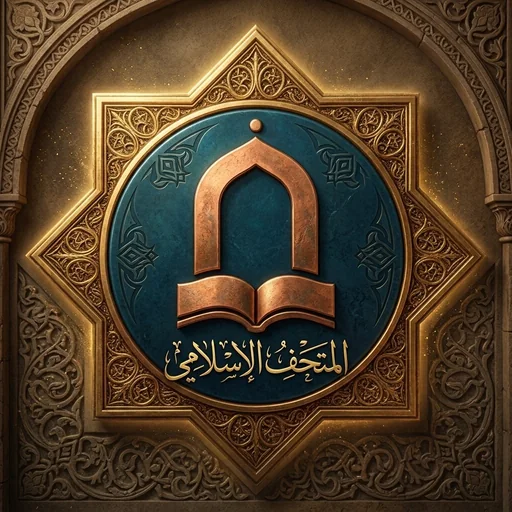
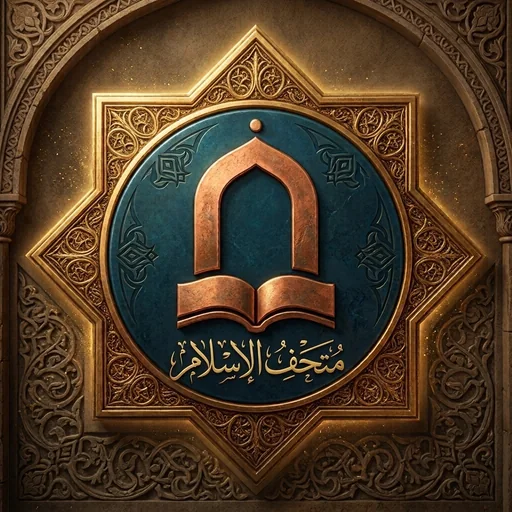
brand: emblem with the corrected lettering «متحف الإسلام»; reproducible asset cut in scripts/brand/emblem.py
The script finds the lapis disc by colour (with a roundness check), cuts the medallion and writes every brand asset,
favicon and the social card from docs/design/emblem-source.jpg.

AI-Agent: claude
AI-Model: claude-fable-5-1
AI-Editor: Claude desktop app (Code tab)

Changed region(s): [[0.3125, 0.6562, 0.6875, 0.75]]

diff --git a/scripts/brand/emblem.py b/scripts/brand/emblem.py
@@ -1,0 +1,97 @@
+#!/usr/bin/env python3
+"""Cut the brand assets from the painted emblem (docs/design/emblem-source.jpg) into site/public/.
+
+Finds the lapis disc by colour, cuts the medallion (disc + gold ring) with a transparent background, and writes:
+  brand/emblem-full.webp, emblem-full-512.webp      the full square (foundation page, backgrounds)
+  brand/mark-{128,512}.webp, mark-512.png           the medallion for light grounds
+  brand/mark-dark-{128,512}.webp                    brightened, gold-haloed medallion for dark grounds
+  brand/mark-mono-{ink,gold}-512.webp               single-colour marks; mark-watermark-{ink,gold}.webp pre-faded (26 %)
+  favicon-{16,32,64}.png, apple-touch-icon.png, brand/og-image.jpg
+Run from the repository root: python3 scripts/brand/emblem.py
+"""
+from pathlib import Path
+import numpy as np
+from PIL import Image, ImageDraw, ImageEnhance, ImageFilter
+
+ROOT = Path(__file__).resolve().parents[2]
+SRC = ROOT / "docs/design/emblem-source.jpg"
+PUB = ROOT / "site/public"
+OUT = PUB / "brand"
+OUT.mkdir(parents=True, exist_ok=True)
+
+img = Image.open(SRC).convert("RGB")
+a = np.asarray(img).astype(int)
+# the lapis disc: dark teal pixels (low red, blue and green above red); its bounding box gives centre and radius, and the
+# gold ring adds ~24 px. The box must be near-square, or the mask caught something else.
+blue = (a[..., 0] < 140) & (a[..., 2] > a[..., 0] + 8) & (a[..., 1] > a[..., 0] + 4)
+ys, xs = np.where(blue)
+w, h = xs.max() - xs.min(), ys.max() - ys.min()
+if abs(w - h) > 0.04 * max(w, h):
+    raise SystemExit(f"disc mask is not round ({w}x{h}); adjust the colour thresholds")
+cx, cy = int((xs.min() + xs.max()) / 2), int((ys.min() + ys.max()) / 2)
+r = int(max(w, h) / 2) + 24
+print(f"disc centre ({cx}, {cy}), medallion radius {r}")
+
+img.save(OUT / "emblem-full.webp", quality=84, method=6)
+img.resize((512, 512), Image.LANCZOS).save(OUT / "emblem-full-512.webp", quality=84, method=6)
+
+S = 4
+mask = Image.new("L", (img.width * S, img.height * S), 0)
+ImageDraw.Draw(mask).ellipse([(cx - r) * S, (cy - r) * S, (cx + r) * S, (cy + r) * S], fill=255)
+mask = mask.resize(img.size, Image.LANCZOS)
+rgba = img.convert("RGBA")
+rgba.putalpha(mask)
+mark = rgba.crop((cx - r, cy - r, cx + r, cy + r))
+D = mark.width
+
+
+def save(im: Image.Image, name: str, sizes=(512,), png=False):
+    for s in sizes:
+        m = im.resize((s, s), Image.LANCZOS)
+        m.save(OUT / f"{name}-{s}.webp", quality=88, method=6)
+        if png:
+            m.save(OUT / f"{name}-{s}.png", optimize=True)
+
+
+save(mark, "mark", (512, 128), png=False)
+mark.resize((512, 512), Image.LANCZOS).save(OUT / "mark-512.png", optimize=True)
+
+bright = ImageEnhance.Contrast(ImageEnhance.Brightness(mark).enhance(1.22)).enhance(1.08)
+halo = Image.new("RGBA", (D, D), (0, 0, 0, 0))
+ImageDraw.Draw(halo).ellipse([6, 6, D - 6, D - 6], fill=(197, 160, 89, 110))
+halo = halo.filter(ImageFilter.GaussianBlur(14))
+dark = Image.alpha_composite(halo, bright)
+save(dark, "mark-dark", (512, 128))
+
+lum = np.asarray(mark.convert("L")).astype(float) / 255.0
+alpha = np.asarray(mark.split()[3]).astype(float) / 255.0
+
+
+def tinted(color):
+    l = np.clip((lum - 0.15) / 0.7, 0, 1)
+    arr = np.zeros((D, D, 4), dtype=np.uint8)
+    arr[..., 0], arr[..., 1], arr[..., 2] = color
+    arr[..., 3] = (l * alpha * 255).astype(np.uint8)
+    return Image.fromarray(arr, "RGBA")
+
+
+for name, color in [("gold", (197, 160, 89)), ("ink", (10, 37, 51))]:
+    mono = tinted(color)
+    save(mono, f"mark-mono-{name}", (512,))
+    faded = np.asarray(mono.resize((512, 512), Image.LANCZOS)).copy()
+    faded[..., 3] = (faded[..., 3].astype(float) * 0.26).astype(np.uint8)
+    Image.fromarray(faded, "RGBA").save(OUT / f"mark-watermark-{name}.webp", quality=80, method=6)
+
+for s in (16, 32, 64):
+    mark.resize((s, s), Image.LANCZOS).save(PUB / f"favicon-{s}.png", optimize=True)
+touch = Image.new("RGBA", (180, 180), (10, 37, 51, 255))
+touch.alpha_composite(mark.resize((156, 156), Image.LANCZOS), (12, 12))
+touch.convert("RGB").save(PUB / "apple-touch-icon.png", optimize=True)
+
+og = Image.new("RGBA", (1200, 630), (10, 37, 51, 255))
+glow = Image.new("RGBA", (1200, 630), (0, 0, 0, 0))
+ImageDraw.Draw(glow).ellipse([330, 45, 870, 585], fill=(197, 160, 89, 70))
+og = Image.alpha_composite(og, glow.filter(ImageFilter.GaussianBlur(60)))
+og.alpha_composite(dark.resize((520, 520), Image.LANCZOS), (340, 55))
+og.convert("RGB").save(OUT / "og-image.jpg", quality=86)
+print("wrote", sorted(p.name for p in OUT.iterdir()))

diff --git a/docs/plan/04-experience.md b/docs/plan/04-experience.md
@@ -188,7 +188,7 @@ Class-specific panels:
 ## 6. Design language
 
 - **Mood**: a quiet, well-lit museum. Generous margins, large type, few colours. Beauty comes from typography and geometry, not from decoration.
-- **Emblem** (12 Oct 2026): the founder's painted medallion — a copper mihrab arch over an open book on a lapis disc, inside a gold ring and an eight-point star — is the logo everywhere. Source artwork in `docs/design/emblem-source.jpg`; cut assets in `site/public/brand/`: `emblem-full*.webp` (the full square, foundation page and social card), `mark-{128,512}.webp` and `mark-dark-*.webp` (the medallion for light and dark grounds, switched by the theme in `Logo.astro`), `mark-mono-{ink,gold}-512.webp` and the pre-faded `mark-watermark-*.webp` (hero and banner watermarks), favicons and `apple-touch-icon.png`, `og-image.jpg`. The older vector `logo-mark.svg` stays only as the lockup's fallback. The medallion's own lettering reads «المتحف الإسلامي»; the site's name stays «متحف الإسلام».
+- **Emblem** (12 Oct 2026): the founder's painted medallion — a copper mihrab arch over an open book on a lapis disc, inside a gold ring and an eight-point star — is the logo everywhere. Source artwork in `docs/design/emblem-source.jpg`; cut assets in `site/public/brand/`: `emblem-full*.webp` (the full square, foundation page and social card), `mark-{128,512}.webp` and `mark-dark-*.webp` (the medallion for light and dark grounds, switched by the theme in `Logo.astro`), `mark-mono-{ink,gold}-512.webp` and the pre-faded `mark-watermark-*.webp` (hero and banner watermarks), favicons and `apple-touch-icon.png`, `og-image.jpg`. The older vector `logo-mark.svg` stays only as the lockup's fallback. The lettering on the medallion reads «متحف الإسلام», the site's name. Regenerate the assets with `python3 scripts/brand/emblem.py` after replacing the source.
 - **Palette** (tokens, visual identity spec): warm alabaster `#F9F8F6` background, ink `#1A1A1A`, deep midnight lapis `#0A2533` (hero band, dark mode ground), museum teal `#113F4E` (links, panels in dark mode), manuscript gold `#C5A059` as the one accent (decorative on light grounds; gold text uses `#7D5D1E`, which passes AA), parchment `#E6D5B8` for panels and light text on dark. Each wing has its own tone for orientation, and each wing number sits in a star medallion. Every text pair meets WCAG 2.2 AA.
 - **Geometry**: a procedurally generated girih/star-tiling SVG motif as faint texture in headers and share cards; generated from parameters per entity so every page has a unique but coherent pattern (and nothing is copied from a copyrighted source).
 - **Type**: Arabic — Noto Naskh Arabic (body), Amiri Quran (scripture), Reem Kufi (display); Latin — Source Serif 4 (body), Inter (UI). Transliteration follows a simplified ALA-LC without diacritics in body text and full diacritics in the "names" panel.
